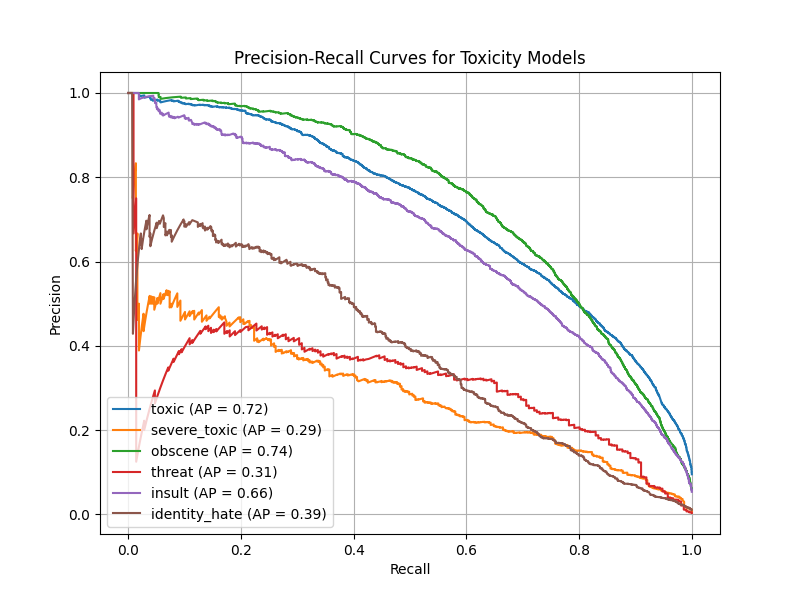
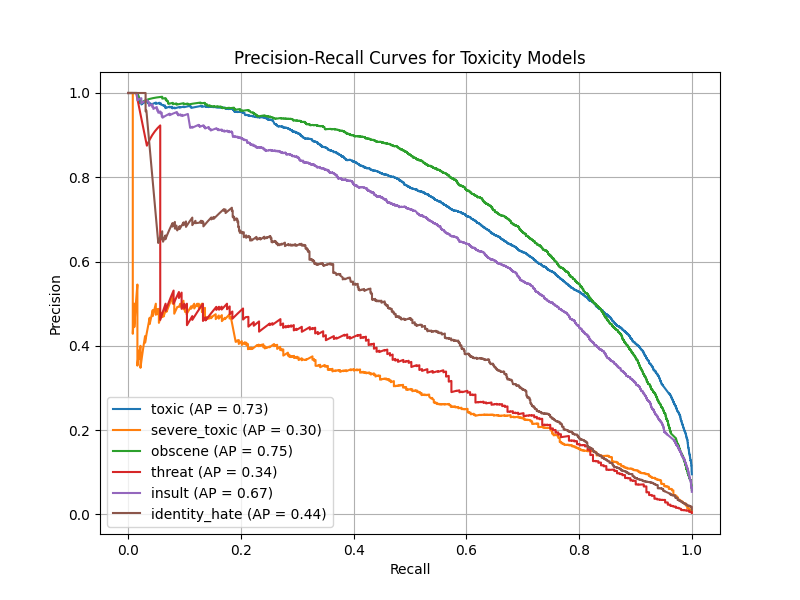
Add punc and special char removal

diff --git a/app.py b/app.py
@@ -1,4 +1,6 @@
 import pandas as pd, gradio as gr, matplotlib.pyplot as plt, seaborn as sns, os, nltk
+import re
+import string
 from nltk.corpus import stopwords
 from nltk.tokenize import word_tokenize
 from textblob import TextBlob
@@ -6,10 +8,9 @@ from sklearn.linear_model import LogisticRegression
 from sklearn.metrics import confusion_matrix, roc_curve, auc, precision_recall_curve, average_precision_score, classification_report
 from sklearn.pipeline import make_pipeline
 from sklearn.feature_extraction.text import TfidfVectorizer
-from tqdm import tqdm       # Cute lil progress bar when the program is loading
+from tqdm import tqdm  # Cute lil progress bar when the program is loading
 
 # Download necessary NLTK resources if they don't exist
-# Tries and finds the resources in the local directory, if not found then it installs them
 try:
     nltk.data.find('corpora/stopwords')
     nltk.data.find('tokenizers/punkt_tab')
@@ -17,7 +18,7 @@ except LookupError:
     nltk.download('stopwords')
     nltk.download('punkt_tab')
 
-# Use NLTK to fetch their stopwords, used for text pre-processing. 
+# Use NLTK to fetch their stopwords, used for text pre-processing.
 stop_words = set(stopwords.words('english'))
 
 # Input the CSV data
@@ -28,11 +29,22 @@ df = pd.DataFrame(data)
 tf = pd.DataFrame(test_labels)
 td = pd.DataFrame(test_data)
 
-# This function removes the defined stopwords from the input text
+
+# This function removes punctuation, special characters, and defined stopwords from the input text
 def remove_stop_words(text):
+    # Remove punctuation and special characters
+    text = re.sub(f'[{re.escape(string.punctuation)}]', ' ', text)
+    text = re.sub(r'\s+', ' ', text).strip()
+    # Tokenize the text
     tokens = word_tokenize(text)
+    # Remove stopwords
     filtered_tokens = [word for word in tokens if word.lower() not in stop_words]
     return " ".join(filtered_tokens)
+
+
+# Preprocess training and test data
+df['processed_text'] = df['comment_text'].apply(remove_stop_words)
+td['processed_text'] = td['comment_text'].apply(remove_stop_words)
 
 # Ensure matching number of samples in training and testing data
 test_size = len(test_labels)
@@ -43,7 +55,7 @@ results = []
 models = {}
 classification_reports = {}
 
-# Train the LogisticRegression model using our data, required to make a pipeline with TF-IDF to ensure that LogisticRegression can process text data
+# Train the LogisticRegression model using preprocessed data
 for label in tqdm(label_names, desc="Training models"):
     y_train_label = df[label].iloc[:test_size]
     y_test_label = tf[label].iloc[:test_size]
@@ -59,14 +71,14 @@ for label in tqdm(label_names, desc="Training models"):
     # class_weight = balanced, adjusts weights, for imbalanced datasets it gives high weight to lesser frequent classes
     # max_iter = 1000, max number of iterations before convergence
     model = make_pipeline(
-        TfidfVectorizer(max_features=10000, ngram_range=(1,2), min_df=2, max_df=0.8, sublinear_tf=True),
+        TfidfVectorizer(max_features=10000, ngram_range=(1, 2), min_df=2, max_df=0.8, sublinear_tf=True),
         LogisticRegression(C=1.0, class_weight='balanced', max_iter=1000)
     )
-    model.fit(df['comment_text'].iloc[:test_size], y_train_label)
-    preds = model.predict(td['comment_text'][:test_size])
+    model.fit(df['processed_text'].iloc[:test_size], y_train_label)
+    preds = model.predict(td['processed_text'][:test_size])
     report = classification_report(y_test_label, preds, output_dict=True, zero_division=0)
-    
-    # Print scores and labels to console for our Accuracy, F1, Precision, and Recall
+
+    # Store scores for our Accuracy, F1, Precision, and Recall
     results.append({
         "Model": f"Logistic Regression - {label}",
         "Accuracy": round(report['accuracy'], 3),
@@ -78,10 +90,11 @@ for label in tqdm(label_names, desc="Training models"):
 
 results_df = pd.DataFrame(results)
 
+
 # Generate all Matplotlib diagrams
 def generate_diagrams(models, results_df, df, test_labels, test_x, test_size, label_names, output_dir='diagrams'):
     os.makedirs(output_dir, exist_ok=True)
-    
+
     # 1. Confusion Matrices
     for label in label_names:
         y_test_label = test_labels[label].iloc[:test_size]
@@ -96,10 +109,10 @@ def generate_diagrams(models, results_df, df, test_labels, test_x, test_size, la
         plt.ylabel('Actual')
         plt.savefig(os.path.join(output_dir, f'confusion_matrix_{label}.png'), bbox_inches='tight')
         plt.close()
-    
+
     # 2. Bar Plot of Model Performance
     plt.figure(figsize=(10, 6))
-    results_df_melted = pd.melt(results_df, id_vars='Model', value_vars=['Accuracy', 'F1-Score'], 
+    results_df_melted = pd.melt(results_df, id_vars='Model', value_vars=['Accuracy', 'F1-Score'],
                                 var_name='Metric', value_name='Score')
     sns.barplot(x='Model', y='Score', hue='Metric', data=results_df_melted)
     plt.title('Model Performance Across Toxicity Labels')
@@ -110,7 +123,7 @@ def generate_diagrams(models, results_df, df, test_labels, test_x, test_size, la
     plt.tight_layout()
     plt.savefig(os.path.join(output_dir, 'performance_bar_plot.png'))
     plt.close()
-    
+
     # 3. Class Distribution Pie Charts
     plt.figure(figsize=(12, 8))
     for i, label in enumerate(label_names, 1):
@@ -121,7 +134,7 @@ def generate_diagrams(models, results_df, df, test_labels, test_x, test_size, la
     plt.tight_layout()
     plt.savefig(os.path.join(output_dir, 'class_distribution_pie.png'))
     plt.close()
-    
+
     # 4. ROC Curves
     plt.figure(figsize=(8, 6))
     for label in label_names:
@@ -138,7 +151,7 @@ def generate_diagrams(models, results_df, df, test_labels, test_x, test_size, la
     plt.grid(True)
     plt.savefig(os.path.join(output_dir, 'roc_curves.png'))
     plt.close()
-    
+
     # 5. Precision-Recall Curves
     plt.figure(figsize=(8, 6))
     for label in label_names:
@@ -155,13 +168,15 @@ def generate_diagrams(models, results_df, df, test_labels, test_x, test_size, la
     plt.savefig(os.path.join(output_dir, 'precision_recall_curves.png'))
     plt.close()
 
+
 # Display results
 results_df = pd.DataFrame(results)
 
-# Generate the diagrams
-generate_diagrams(models, results_df, df, test_labels, td['comment_text'], test_size, label_names)
+# Generate the diagrams using preprocessed test data
+generate_diagrams(models, results_df, df, test_labels, td['processed_text'], test_size, label_names)
 
-# Use TextBlob's built in sentiment analysis to determine the sentiment of the provided text, this checks after the stopwords have been removed
+
+# Use TextBlob's built-in sentiment analysis to determine the sentiment of the provided text
 def check_sentiment(text):
     blob = TextBlob(text)
     polarity = blob.sentiment.polarity
@@ -169,8 +184,8 @@ def check_sentiment(text):
     sentiment = 'Positive' if polarity > 0 else 'Negative' if polarity < 0 else 'Neutral'
     return sentiment, polarity, subjectivity
 
-# Process the data to remove the stop words from the inputted sentence, after processed take the new sentence and use the LogisticRegression model to predict the labels
-# Then uses the processed words to check the sentiment of the sentence, then returning the output
+
+# Process the input comment to remove stop words, punctuation, and special characters, then predict toxicity and sentiment
 def sentiment_prediction(comments):
     processed = remove_stop_words(comments)
     toxic_labels = [label for label, model in models.items() if model.predict([processed])[0] == 1]
@@ -179,7 +194,8 @@ def sentiment_prediction(comments):
         return f"This comment is: {', '.join(toxic_labels)}. \nSentiment: {sentiment} (Polarity: {polarity}, Subjectivity: {subjectivity})"
     return f"This comment is not toxic in any category. \nSentiment: {sentiment} (Polarity: {polarity}, Subjectivity: {subjectivity})"
 
-# Use Gradio to handle our text input and displaying our diagrams generated from matplotlib
+
+# Use Gradio to handle text input and display diagrams generated from matplotlib
 with gr.Blocks(css="""
 .check-button {
     background-color: purple;
@@ -191,7 +207,7 @@ with gr.Blocks(css="""
 }
 """) as demo:
     gr.Markdown("## Toxicity Detector with Sentiment Analysis")
-    
+
     # Text input and label outputs
     gr.Markdown("Enter a comment to analyze for toxicity and sentiment.")
     with gr.Row():
@@ -201,11 +217,11 @@ with gr.Blocks(css="""
     with gr.Row():
         predict_button = gr.Button("Check Toxicity and Sentiment", elem_classes=["check-button"])
         predict_button.click(fn=sentiment_prediction, inputs=input_box, outputs=output_box)
-    
+
     # Model performance table
     gr.Markdown("## Model Performance Metrics")
     gr.DataFrame(results_df, label="Performance Summary")
-    
+
     # Load generated images from matplotlib 
     gr.Markdown("## Generated Diagrams")
     with gr.Row():
@@ -217,11 +233,11 @@ with gr.Blocks(css="""
     gr.Markdown("### Confusion Matrices")
     for i in range(0, len(label_names), 2):
         with gr.Row():
-            gr.Image(os.path.join('diagrams', f'confusion_matrix_{label_names[i]}.png'), 
+            gr.Image(os.path.join('diagrams', f'confusion_matrix_{label_names[i]}.png'),
                      label=f"Confusion Matrix - {label_names[i]}")
             if i + 1 < len(label_names):
-                gr.Image(os.path.join('diagrams', f'confusion_matrix_{label_names[i+1]}.png'), 
-                         label=f"Confusion Matrix - {label_names[i+1]}")
+                gr.Image(os.path.join('diagrams', f'confusion_matrix_{label_names[i + 1]}.png'),
+                         label=f"Confusion Matrix - {label_names[i + 1]}")
             else:
                 gr.Image(None, visible=False)
 
